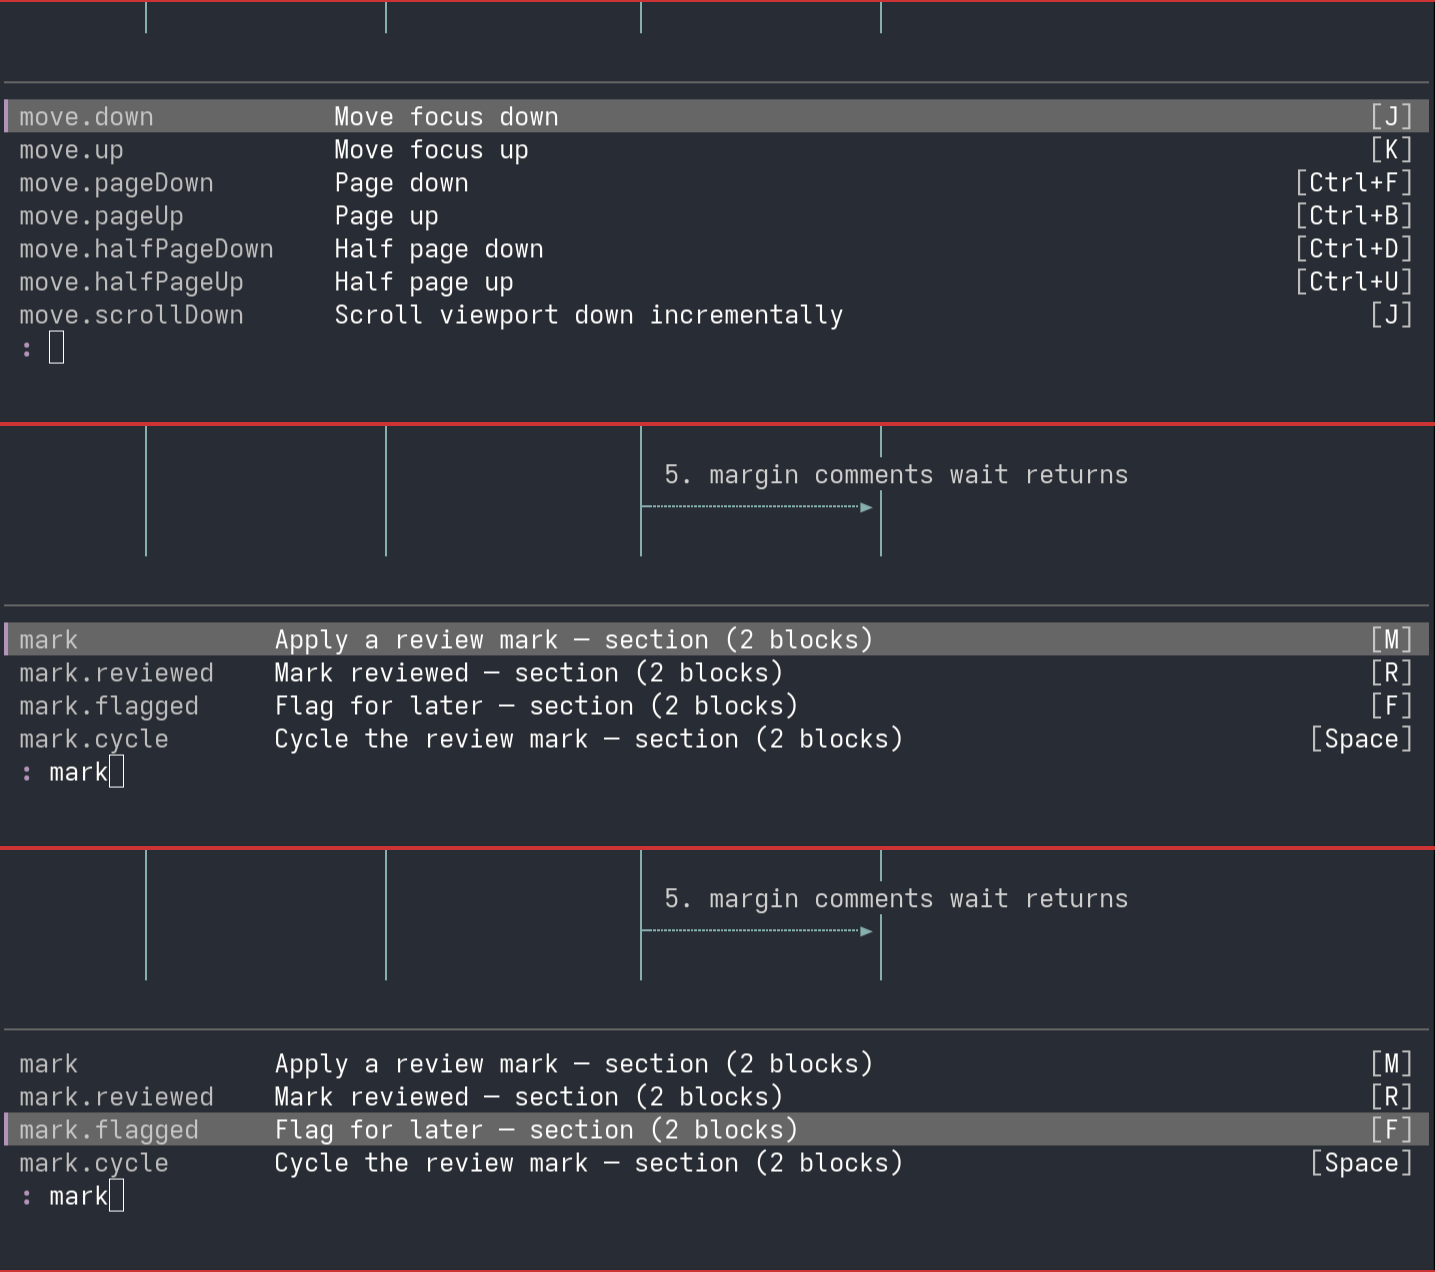
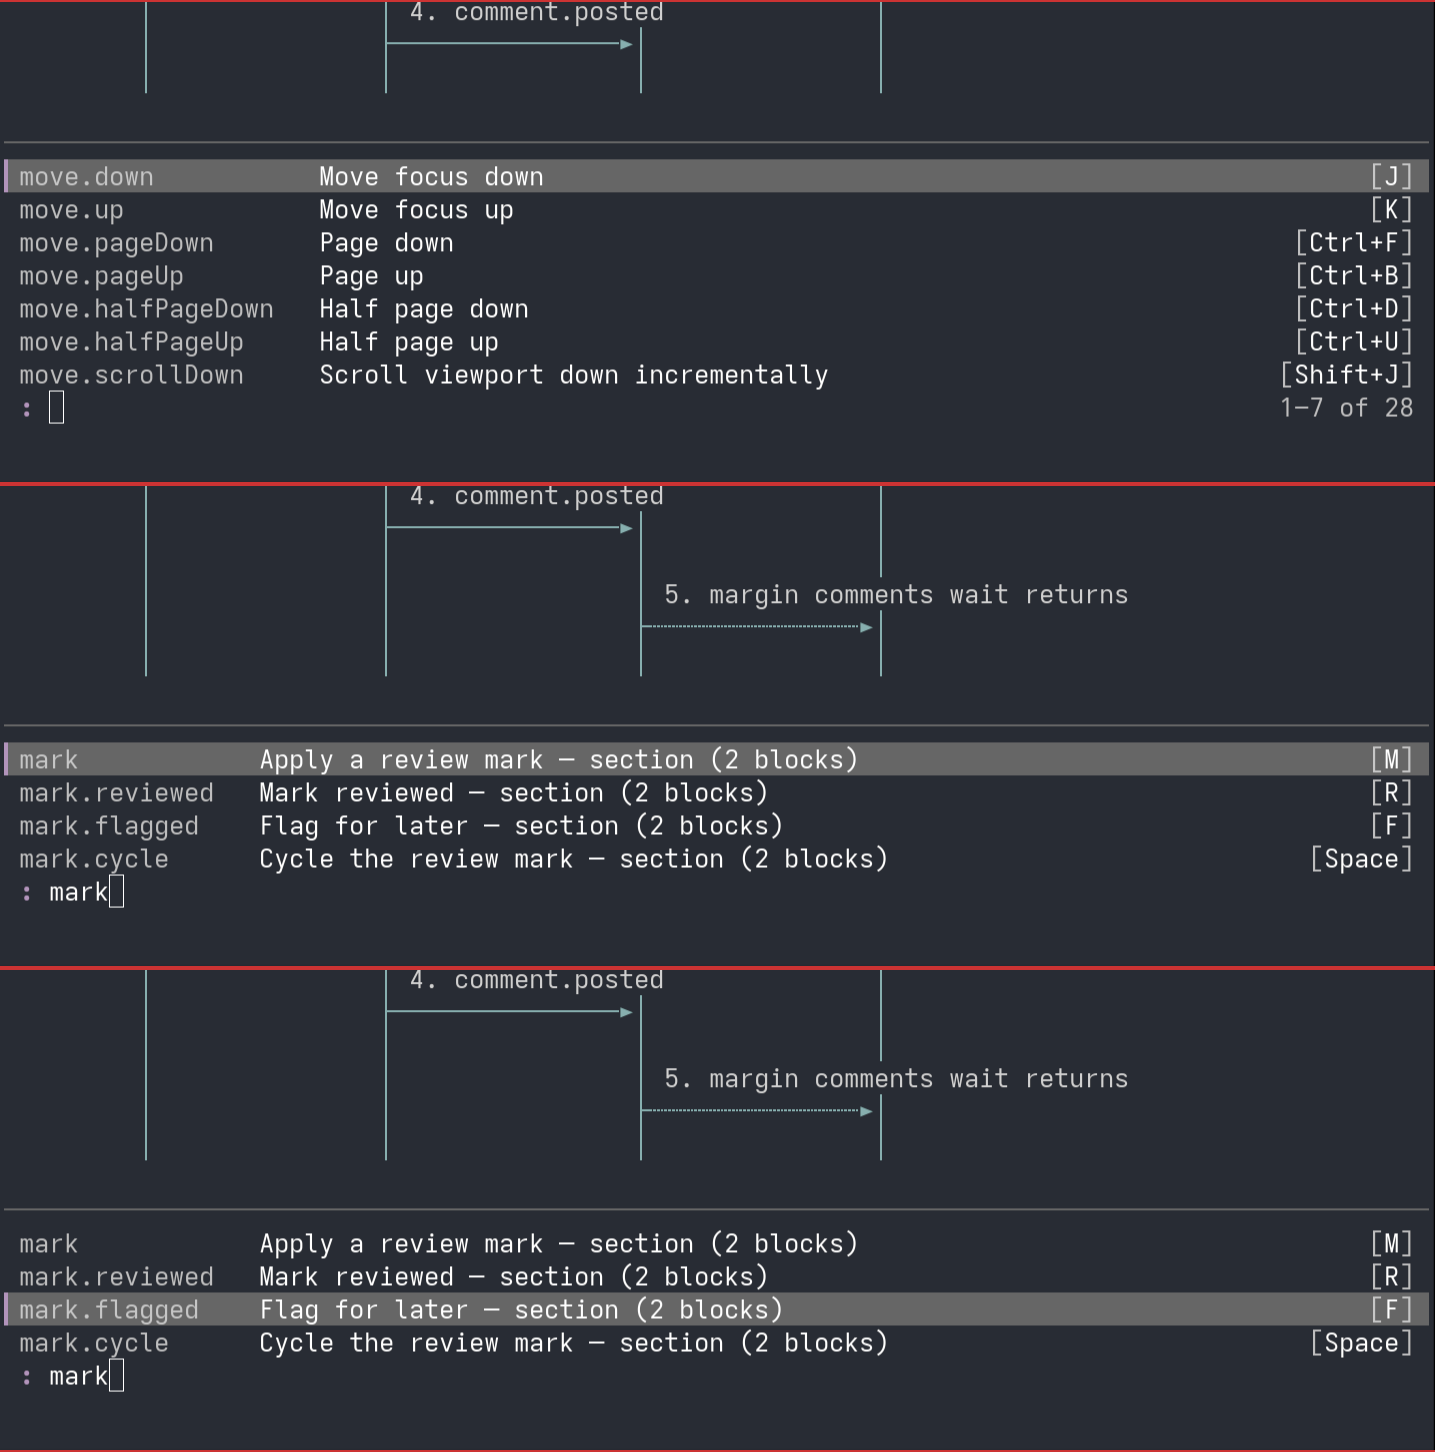
fix(chrome): Compact, not dense; keys named for surf; the palette's range [felt]
The footer, search prompt and palette are in hotty-surf's Compact (a sans), the
palette's rows counted from the host's cell size. A capital is shift+letter
(J is shift+j). The '1-7 of 28' returns.

diff --git a/internal/review/surf_gen.go b/internal/review/surf_gen.go
@@ -88,7 +88,7 @@ func surfInterpFooter(c *Footer) surflive.Component { return surf.Component(surf
 
 // surfShapePalette is Palette's shape, a component.
 var surfShapePalette = surf.Shape{Name: "Palette", Component: true,
-	Fields: []surf.Field{{Name: "query", Type: cellite.String}, {Name: "rows", Type: cellite.ListOf(cellite.StructOf("PaletteRow"))}, {Name: "sel", Type: cellite.Int}, {Name: "idw", Type: cellite.Int}},
+	Fields: []surf.Field{{Name: "query", Type: cellite.String}, {Name: "rows", Type: cellite.ListOf(cellite.StructOf("PaletteRow"))}, {Name: "sel", Type: cellite.Int}, {Name: "range", Type: cellite.String}, {Name: "idw", Type: cellite.Int}},
 	Methods: []surf.Method{
 		{Name: "pick", Args: []cellite.Type{cellite.Int}},
 		{Name: "typed", Args: []cellite.Type{cellite.String}},
@@ -123,6 +123,8 @@ func (o surfPalette) Field(i int) cellite.Value {
 	case 2:
 		return cellite.IntValue(int64(o.p.Sel))
 	case 3:
+		return cellite.StringValue(string(o.p.Range))
+	case 4:
 		return cellite.IntValue(int64(o.p.Idw))
 	}
 	return cellite.NullValue()
@@ -366,7 +368,6 @@ func surfRenderFooter(e *surf.Errs, out []*surfui.Node, c *Footer, fill surf.Fil
 			e.Leave()
 		}
 		n1 := surf.NewSurface(k1...)
-		surf.ModDensity(n1, "dense")
 		out = append(out, n1)
 		e.Leave()
 	}
@@ -480,6 +481,17 @@ func surfRenderPalette(e *surf.Errs, out []*surfui.Node, c *Palette, fill surf.F
 					k13 = append(k13, n15)
 					e.Leave()
 				}
+				if c.Range != "" {
+					// palette.surf:21:7 <text>
+					if e.Enter("palette.surf", 21, 7) {
+						n16 := surfui.Text(c.Range)
+						surf.ModKey(n16, "range")
+						surf.ModMuted(n16, true)
+						surf.ModSmall(n16, true)
+						k13 = append(k13, n16)
+						e.Leave()
+					}
+				}
 				n13 := surfui.Row(k13...)
 				surf.ModKey(n13, "query")
 				surf.ModGap(n13, 1)
@@ -493,7 +505,6 @@ func surfRenderPalette(e *surf.Errs, out []*surfui.Node, c *Palette, fill surf.F
 			e.Leave()
 		}
 		n1 := surf.NewSurface(k1...)
-		surf.ModDensity(n1, "dense")
 		out = append(out, n1)
 		e.Leave()
 	}
@@ -559,7 +570,6 @@ func surfRenderSearch(e *surf.Errs, out []*surfui.Node, c *Search, fill surf.Fil
 			e.Leave()
 		}
 		n1 := surf.NewSurface(k1...)
-		surf.ModDensity(n1, "dense")
 		out = append(out, n1)
 		e.Leave()
 	}

diff --git a/internal/review/palette.go b/internal/review/palette.go
@@ -19,6 +19,8 @@
 package review
 
 import (
+	"fmt"
+	"math"
 	"sort"
 	"strconv"
 	"strings"
@@ -237,6 +239,9 @@ type Palette struct {
 	Query string
 	Rows  []PaletteRow
 	Sel   int
+	// Range says which commands are in view where there are more than fit:
+	// "1–7 of 28".
+	Range string
 	// Idw is the width of the command column: the longest id in view and two
 	// cells of room, so that a host's letters never cut it.
 	Idw int
@@ -274,6 +279,21 @@ func (m *model) paletteHeight() int {
 	return 2 + max(min(len(paletteRows(m, commands, m.paletteQuery)), paletteShown), 1)
 }
 
+// paletteHostHeight is the palette's height in rows on a host. Compact's
+// rows are a cell and a little air (an item's padding, a rule's margin, in
+// CSS pixels), so the commands need more than one row each: the rows
+// counted from the host's cell size (hottytea.ReadyMsg's Caps.CellCSS),
+// whole, with the field under them.
+func (m *model) paletteHostHeight() int {
+	cell := 20.0
+	if m.hot != nil && m.hot.caps.CellCSS.H > 0 {
+		cell = m.hot.caps.CellCSS.H
+	}
+	n := max(min(len(paletteRows(m, commands, m.paletteQuery)), paletteShown), 1)
+	const rule, item = 9, 8 // a rule's margin and hairline, an item's padding
+	return int(math.Ceil((rule + float64(n)*(cell+item) + cell) / cell))
+}
+
 // paletteHost is the palette as the model has it, its state brought up to
 // date: a new one when the palette opens, so it opens on its own query with
 // the cursor after it.
@@ -300,12 +320,16 @@ func (m *model) paletteHost() *surfHost {
 		r := rows[i]
 		keys := ""
 		if !r.IsValue {
-			keys = firstBinding(r.Command.ID)
+			keys = surfKey(firstBinding(r.Command.ID))
 		}
 		p.Rows = append(p.Rows, PaletteRow{K: strconv.Itoa(i), ID: r.Command.ID, Title: r.Title, Keys: keys})
 		p.Idw = max(p.Idw, utf8.RuneCountInString(r.Command.ID)+2)
 	}
 	p.Sel = m.paletteSelected - m.paletteTop
+	p.Range = ""
+	if len(rows) > paletteShown {
+		p.Range = fmt.Sprintf("%d–%d of %d", m.paletteTop+1, m.paletteTop+len(p.Rows), len(rows))
+	}
 	return m.palette
 }
 

diff --git a/internal/review/hotty_test.go b/internal/review/hotty_test.go
@@ -910,8 +910,8 @@ func TestHottySearchIsASurface(t *testing.T) {
 		if rows := s.Placement().Rows; rows != 2 {
 			t.Errorf("search prompt placed %d rows tall, want 2", rows)
 		}
-		if class, _ := s.Attr("r", "class"); !strings.Contains(class, "u-dense") {
-			t.Errorf("search prompt surface class %q, want u-dense", class)
+		if class, _ := s.Attr("r", "class"); !strings.Contains(class, "u-compact") {
+			t.Errorf("search prompt surface class %q, want u-compact", class)
 		}
 		if err := h.Fill(name, searchFieldID, "quote"); err != nil {
 			t.Fatal(err)
@@ -928,7 +928,7 @@ func TestHottySearchIsASurface(t *testing.T) {
 	}
 }
 
-// On a host the footer is a one-row surface the kit draws dense, its keys
+// On a host the footer is a one-row surface, in hotty-surf's Compact, its keys
 // inside that row; the palette, taller, is not.
 func TestHottyFooterIsADenseBar(t *testing.T) {
 	hotRun(t, hotDocSrc, func(h *hottytest.Host, m *model) {
@@ -938,8 +938,8 @@ func TestHottyFooterIsADenseBar(t *testing.T) {
 		if rows := s.Placement().Rows; rows != 1 {
 			t.Errorf("footer placed %d rows tall, want 1", rows)
 		}
-		if class, _ := s.Attr("r", "class"); !strings.Contains(class, "u-dense") {
-			t.Errorf("footer surface class %q, want u-dense", class)
+		if class, _ := s.Attr("r", "class"); !strings.Contains(class, "u-compact") {
+			t.Errorf("footer surface class %q, want u-compact", class)
 		}
 		h.Type(":")
 		var p *hottytest.Surface

diff --git a/internal/review/command.go b/internal/review/command.go
@@ -14,6 +14,8 @@ package review
 import (
 	"fmt"
 	"strings"
+	"unicode"
+	"unicode/utf8"
 
 	tea "charm.land/bubbletea/v2"
 )
@@ -805,4 +807,30 @@ func firstBinding(id string) string {
 		}
 	}
 	return ""
+}
+
+// surfKey is a binding as hotty-surf names keys (myelin's names): a capital
+// letter is shift and the letter ("J" is shift+j, which scrolls, where "j"
+// moves), a space is "space", a two-letter chord is a sequence ("y r"),
+// and the arrows, pages and escape have their long names.
+func surfKey(k string) string {
+	switch k {
+	case " ":
+		return "space"
+	case "esc":
+		return "escape"
+	case "pgdown":
+		return "page_down"
+	case "pgup":
+		return "page_up"
+	case "up", "down", "left", "right":
+		return "arrow_" + k
+	}
+	if r, n := utf8.DecodeRuneInString(k); n == len(k) && unicode.IsUpper(r) {
+		return "shift+" + string(unicode.ToLower(r))
+	}
+	if len(k) == 2 && k[0] >= 'a' && k[0] <= 'z' && k[1] >= 'a' && k[1] <= 'z' {
+		return k[:1] + " " + k[1:]
+	}
+	return k
 }

diff --git a/internal/review/palette_test.go b/internal/review/palette_test.go
@@ -480,3 +480,21 @@ func TestPaletteQueryIsAField(t *testing.T) {
 		t.Fatalf("enter on app.quit: quitting = %v, palette open = %v; want the command run and the palette closed", m.quitting, m.paletteOpen)
 	}
 }
+
+// Two different keys never read the same in the palette: "j" moves and "J"
+// scrolls, and the second is shift+j, a cap of its own.
+func TestSurfKeysAreDistinct(t *testing.T) {
+	seen := map[string]string{} // what a key reads → the command it runs
+	for _, b := range keyBindings {
+		k := surfKey(b.key)
+		if was, ok := seen[k]; ok && was != b.id {
+			t.Errorf("%q (%s) and another key (%s) both read %q", b.key, b.id, was, k)
+		}
+		seen[k] = b.id
+	}
+	for raw, want := range map[string]string{"J": "shift+j", "j": "j", "esc": "escape", "yr": "y r", " ": "space", "pgdown": "page_down", "ctrl+f": "ctrl+f"} {
+		if got := surfKey(raw); got != want {
+			t.Errorf("surfKey(%q) = %q, want %q", raw, got, want)
+		}
+	}
+}

diff --git a/internal/review/hotty.go b/internal/review/hotty.go
@@ -46,6 +46,9 @@ type hotState struct {
 
 	// surfCSS: hotty-surf's stylesheet went to the host (surfhost.go).
 	surfCSS bool
+	// caps is what the host said about itself: how a key reads, and a cell's
+	// size in CSS pixels, which Compact's rows are counted in.
+	caps hotty.Caps
 
 	// Measuring. rows is a block's rows at a width, as the host laid it out
 	// (0: the host refused it, so cells); last is the rows a block took at
@@ -291,6 +294,7 @@ func (m *model) hotUpdate(msg tea.Msg) (cmd tea.Cmd, redraw bool) {
 	case hottytea.ReadyMsg:
 		h.tracef("ready: mode %v, caps %+v", msg.Mode, msg.Caps)
 		if msg.Mode == hottytea.Native {
+			h.caps = msg.Caps
 			h.docs.net = msg.Caps.Net["img-src"]
 			h.s.Send(hotty.Res(hotCSSID, "text/css", []byte(hotCSS)))
 		}

diff --git a/internal/review/review.go b/internal/review/review.go
@@ -3193,7 +3193,7 @@ func (m *model) view() tea.View {
 	paletteHeight := 0
 	if m.paletteOpen {
 		// As the search prompt: cells only where no host places the surface.
-		paletteHeight = m.paletteHeight()
+		paletteHeight = m.paletteHostHeight()
 		if m.hot == nil || !m.hot.native() || m.hot.deaf {
 			paletteBox = m.renderPalette(m.w)
 			paletteHeight = strings.Count(paletteBox, "\n") + 1

diff --git a/internal/review/surfhost.go b/internal/review/surfhost.go
@@ -93,6 +93,7 @@ func (h *hotState) surfSheet() {
 // it).
 func (p *surfHost) surface(h *hotState, r, clip hottytea.Rect) hottytea.Surface {
 	h.surfSheet()
+	p.s.Platform = hotty.PlatformOf(h.caps)
 	if sz, ok := p.m.(surfrun.Sizer); ok {
 		sz.Resize(r.W, r.H)
 	}

diff --git a/vault/journal/2026-11-05.9.md b/vault/journal/2026-11-05.9.md
@@ -1,0 +1,52 @@
+# 2026-11-05.9 — Compact, key names, and the palette checks (gov's four)
+
+Kind: felt (the chrome's font and size change; the palette's keys read
+differently).
+Task: gov's review of b1f2f9e, 2026-11-05: four things before a loop.
+Commit: (this one)
+
+## What changed
+
+1. **Compact, not dense.** The footer, the search prompt and the palette are
+   hotty-surf's default Compact now: IBM Plex Sans, where I had chosen dense,
+   which is the terminal's mono. My reason for dense was that margin places a
+   surface over a whole number of cells, and dense rows are cells. That
+   isn't enough to make the chrome mono: it changed margin's look from the
+   a2ui kit's sans, where "the same look as the rest of the stack" asked for
+   it. Compact rows are a cell and a little air (an item's 4 px of padding
+   each side, a rule's 4 px margins), so margin counts the palette's rows on
+   a host from the host's cell size (`Caps.CellCSS`, `paletteHostHeight`):
+   whole rows, the field under the commands. The footer and the search prompt
+   fit the rows they had. A sans is narrower: the footer's six hints now fit
+   at 897 with a status message, where mono caps cut them (the fit-start
+   reshoot will count it).
+2. **Keys.** `move.scrollDown` is `J`, a capital: shift+j. `surfKey` turns
+   margin's raw keys into myelin's names (`J` → `shift+j`, `esc` → `escape`,
+   `pgdown` → `page_down`, `yr` → `y r`, `up` → `arrow_up`, ` ` → `space`),
+   so the palette says `⇧+J` and `J` is only `j`. The palette showed `J` for
+   both because the raw `J` went to surf as is, and a key cap upper-cases a
+   single letter. `TestSurfKeysAreDistinct`: no two bindings of different
+   commands read the same.
+3. **`:mark` listing four, the old five.** The commands did not change:
+   `matchCommands`, `fuzzyScore`, `paletteRows` and `paletteTitle` have no
+   diff since aca330e. The old shot's fifth row, `doc.reload`, was the
+   query `ark`: the shot's typing dropped the `m` (wtype's first keys). With
+   the typing slowed (`-d 150`), the old and the new both list four for
+   `:mark`. The shots here are of the same query.
+4. **The first panel's rule.** Present in all three; in dense it was a 1 px
+   hairline against a selected first row, and the crop hid it. In Compact it
+   has its margin and shows in each.
+5. Also, from the old palette: its "1–7 of 28" range, which the cells had
+   and the host table had a scrollbar for, is back as a muted count beside the
+   query (`Palette.Range`); there is still no scrollbar (G5).
+6. The hosts' caps are kept (`hotState.caps`), and each surf surface's
+   Platform is set from them (`ready()` was never called before).
+
+## Shots (vault/shots/hotty-surf-palette/)
+
+Before and after sheets at 897 and 1796, host and cells; `:`, `:mark`,
+`:mark` and two downs. I looked at the 897 pair on both and the after at 1796.
+
+## Tests
+
+`make check` and `make test-race` pass, under the memory cap.

diff --git a/vault/knowledge/findings.md b/vault/knowledge/findings.md
@@ -867,3 +867,12 @@ placements and every surface is placed again, so the text jitters on a
 hover. (`CSI J` is not the trigger: ED 0 drops no placement.) Present in
 4c12de7; fixed in hotty-go a5f717a, which counts an RI only at the top row
 (`TestHottyHoverPlacesNothingAgain`). Journal 2026-11-05.5, .8.
+
+## Compact rows are a cell and some air (2026-11-05)
+
+hotty-surf's Compact (the default) draws proportional type on the terminal's
+lines, but an item has 4 px of padding each side and a rule 4 px of margin, in
+CSS pixels. A surface placed over n cells holds fewer commands than n rows
+say; count the host rows from the host's cell size (`Caps.CellCSS`), as
+`paletteHostHeight` does. The cells keep a row a cell. Dense is the
+terminal's font: mono, so not margin's chrome (journal 2026-11-05.9).
